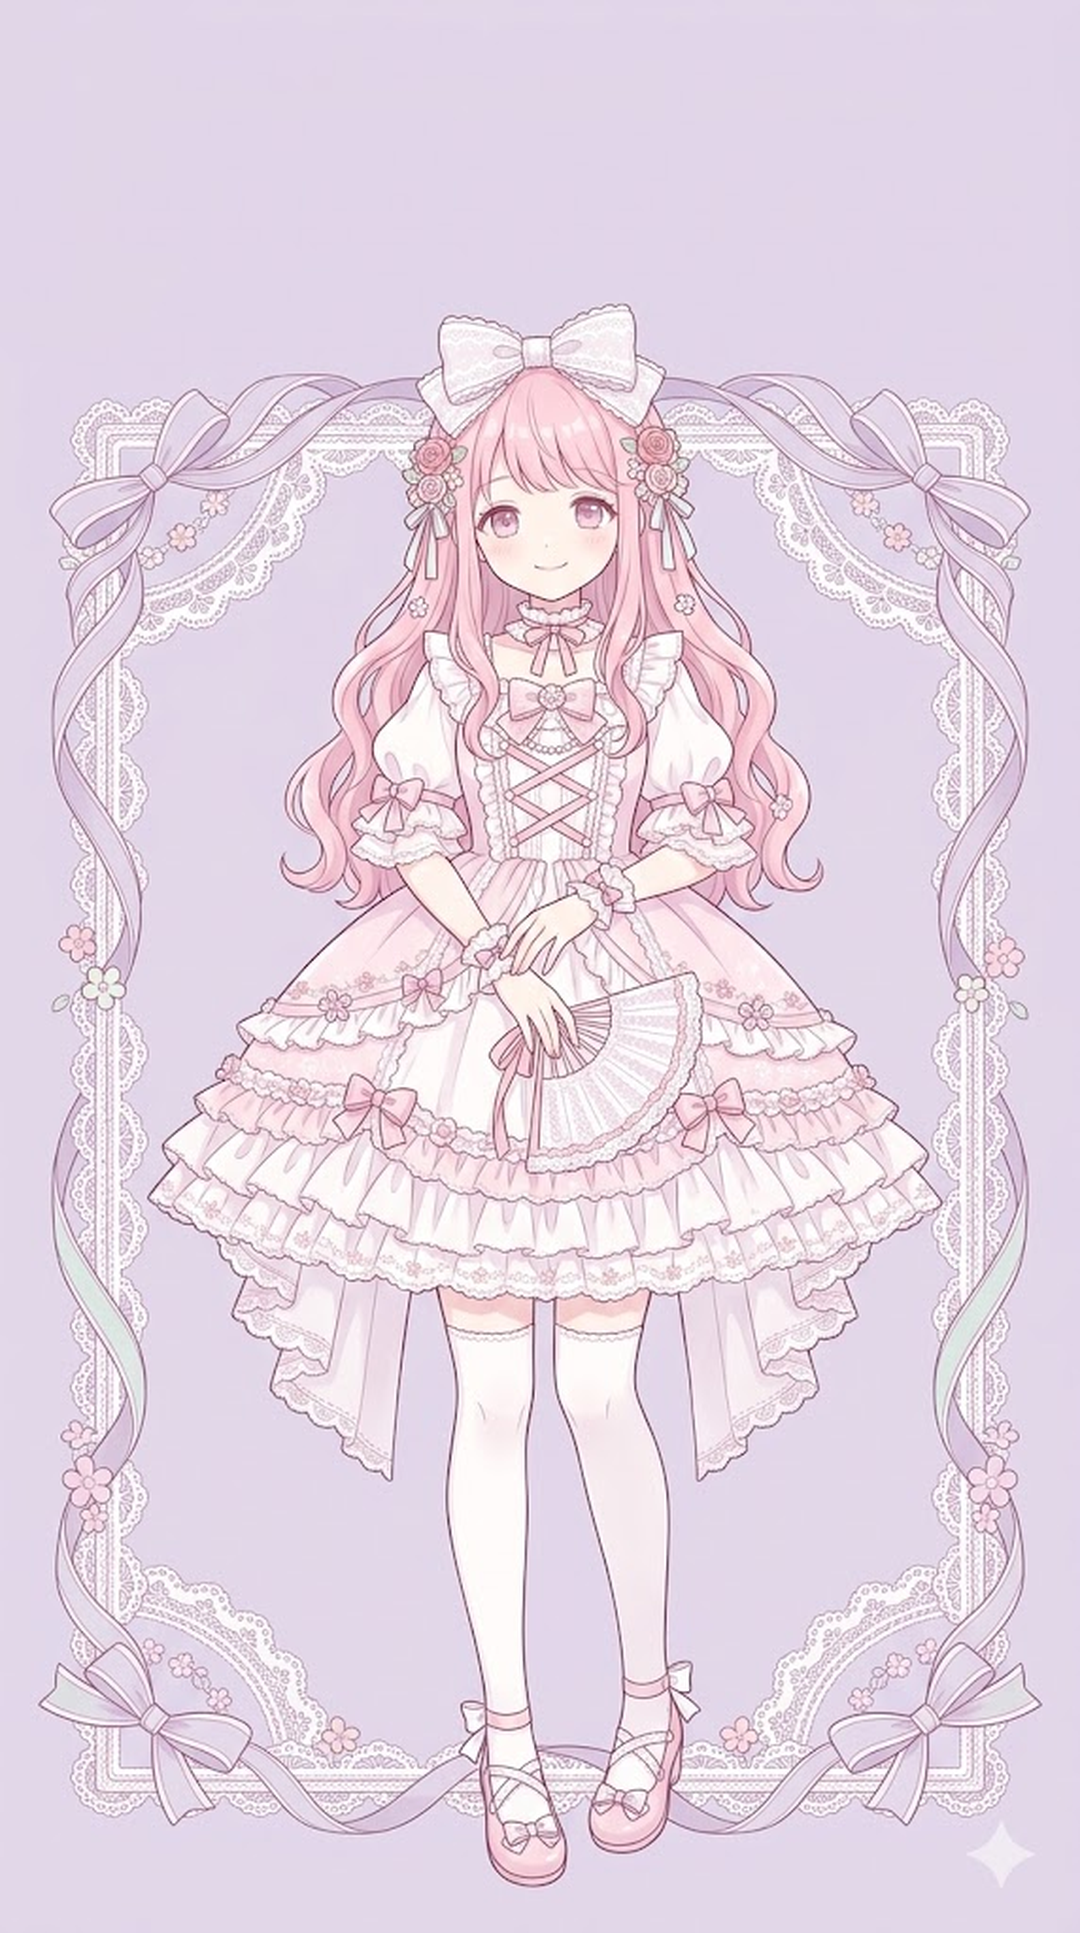
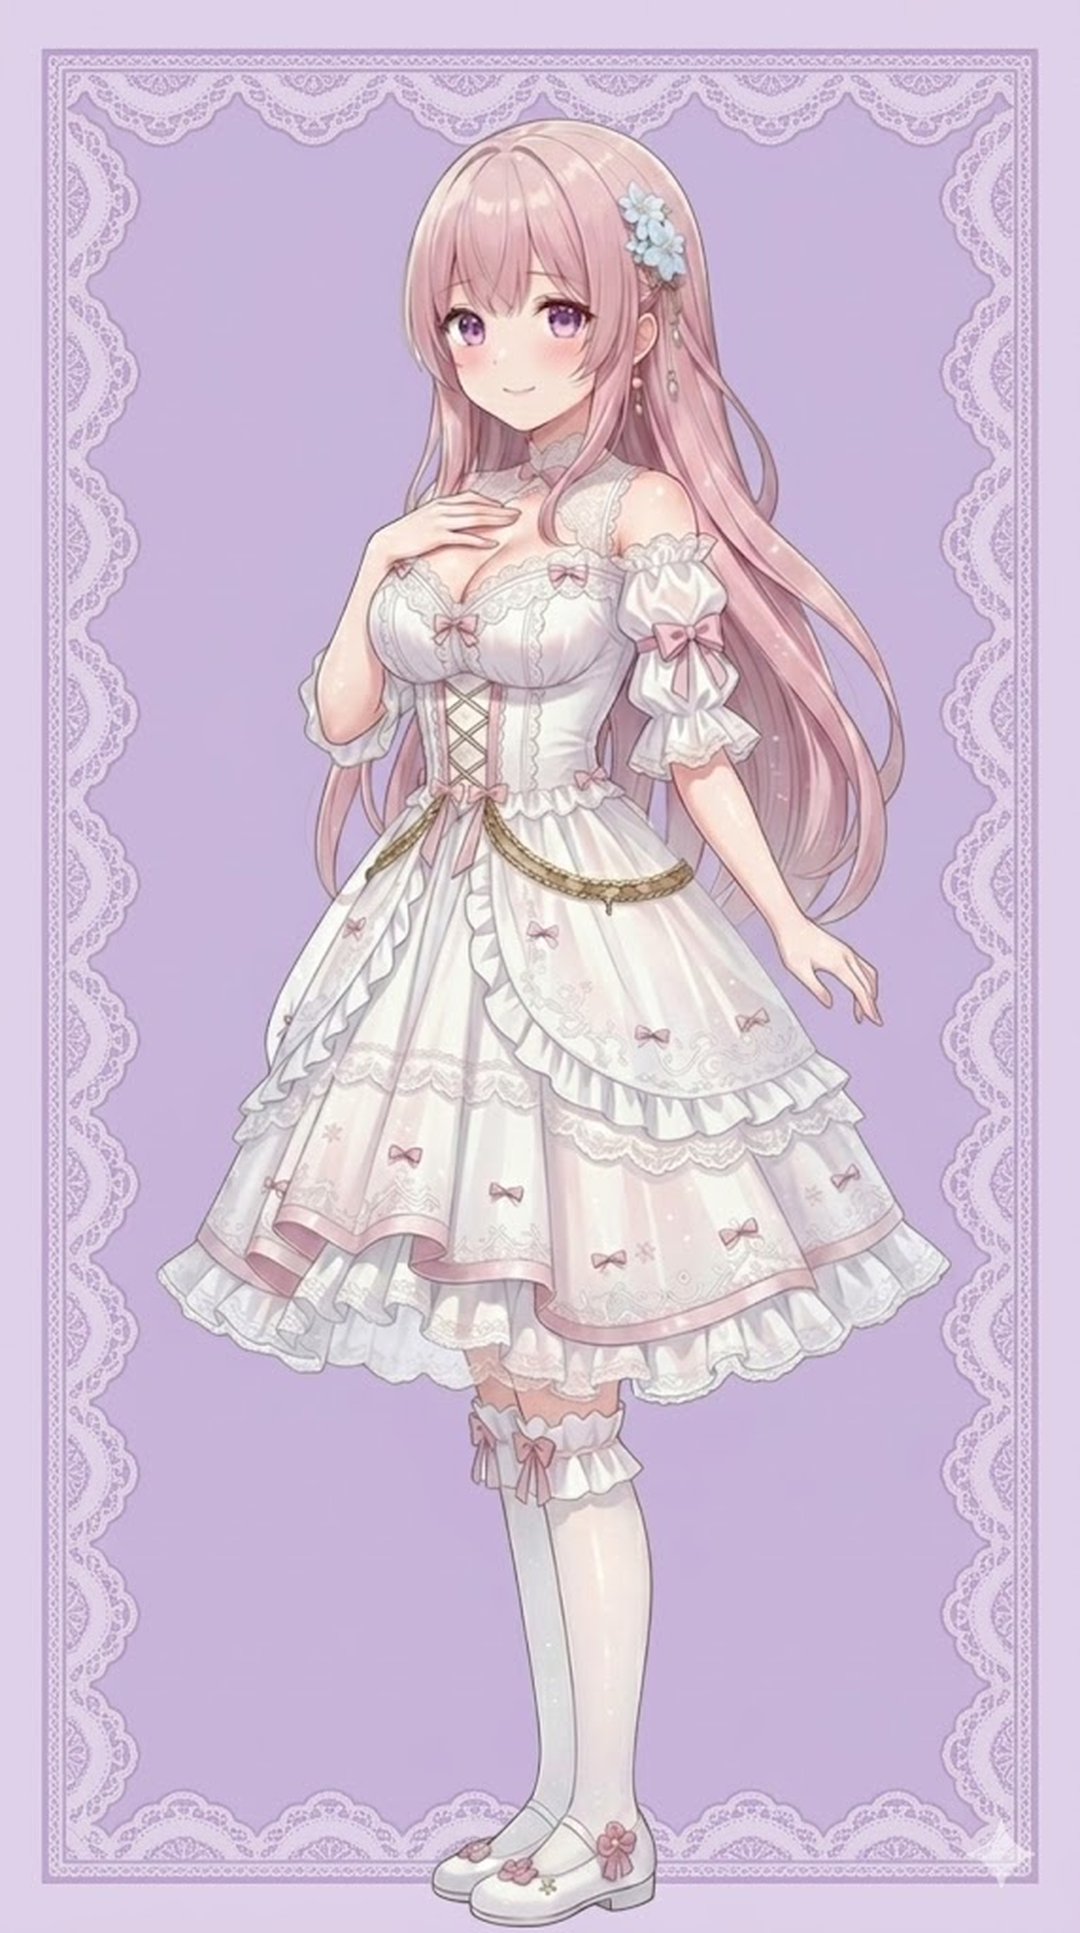
スマホ箱内はみ出し修正＋フィオナportrait作り直し
- feature card のグリッド子要素(.thumb/.body)が min-content で track を
  超えて箱(overflow:hidden)から見切れていたため min-width:0 を付与。
  狭幅で feature body の padding も縮小（index/portfolio で右端見切れ解消）。
- portrait_fiona.png が参照画像なし生成で別人だったため、正しいフィオナ
  立ち絵(character_fiona_03/_normal)を参照添付して同一人物で作り直し。
  ローズピンク髪・水色花飾り・白ロリータで姉2人の portrait と統一。

diff --git a/assets/css/site.css b/assets/css/site.css
@@ -551,6 +551,12 @@ a:hover {
   grid-template-columns: 1.2fr 1fr;
 }
 
+/* グリッド子要素が min-content で track を超えて箱からはみ出す(blowout)のを防ぐ */
+.work-card.feature .thumb,
+.work-card.feature .body {
+  min-width: 0;
+}
+
 .work-card.feature .thumb {
   aspect-ratio: 1 / 1;
   height: 100%;
@@ -1242,6 +1248,7 @@ a:hover {
   .hero-visual { max-width: 380px; margin: 0 auto; }
 
   .work-card.feature { grid-template-columns: 1fr; }
+  .work-card.feature .body { padding: 28px 24px; }
 
   .nav {
     position: fixed;
